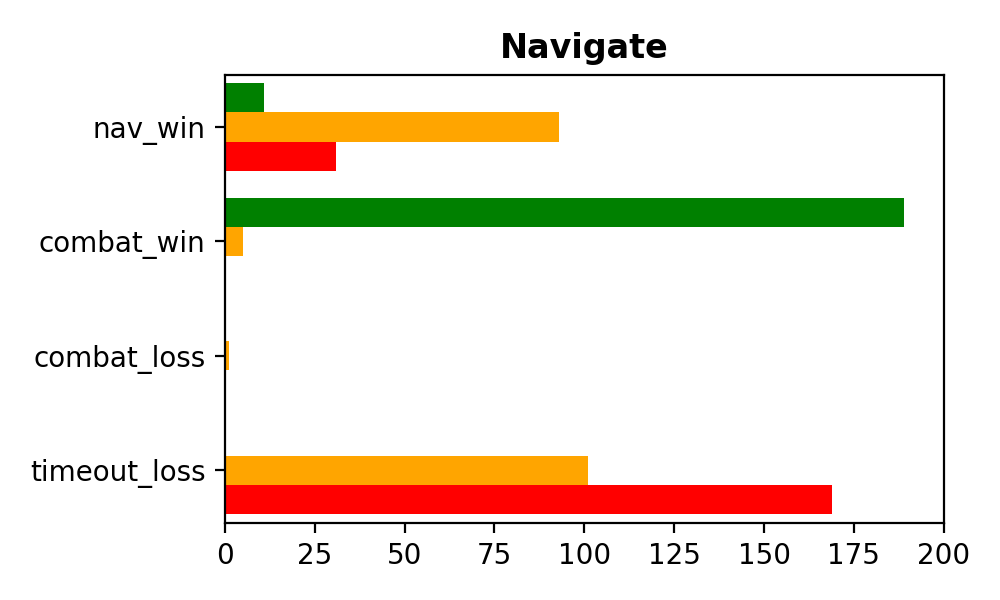
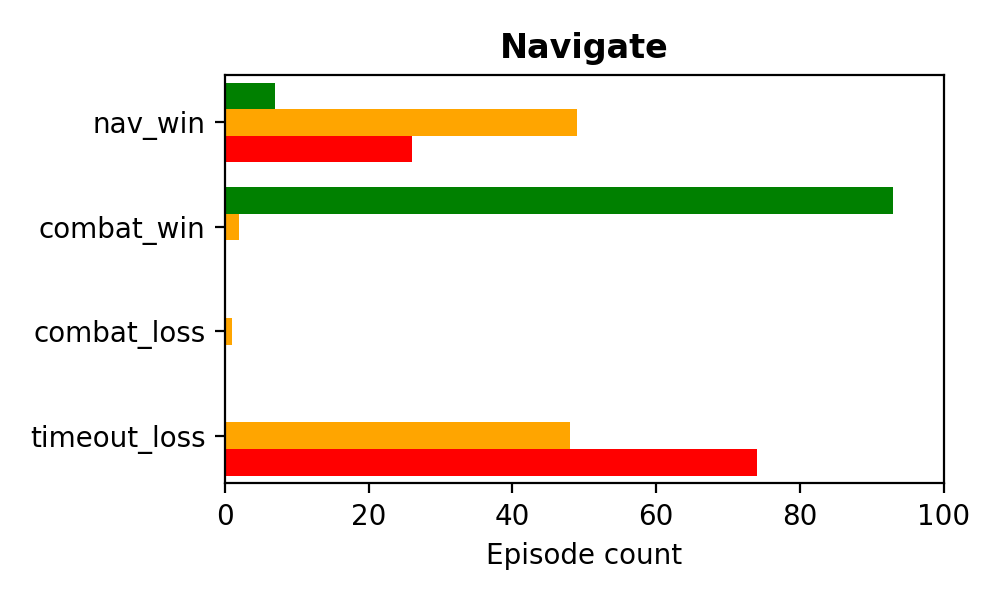
Edit List 1. Added a new file: Agents/run_A2C_PPO_evals.py 2. Modified MPPO plotting.

Changed region(s): [[0.031, 0.69, 0.992, 0.96], [0.031, 0.12, 0.93, 0.45], [0.031, 0.54, 0.248, 0.63]]

diff --git a/Agents/run_A2C_PPO_evals.py b/Agents/run_A2C_PPO_evals.py
@@ -1,0 +1,113 @@
+import os
+import sys
+import subprocess
+from pathlib import Path
+
+# -----------------------------
+# CONFIG
+# -----------------------------
+PROJECT_ROOT = Path(__file__).resolve().parents[1] 
+
+RUN_A2C = True
+RUN_PPO = True
+
+# If empty -> run all eval_*.py found in those folders.
+# Otherwise list exact filenames, e.g. ["eval_A2C_SF_AS14_agent.py", "eval_PPO_NSF_AS14_agent.py"]
+ONLY_THESE = []
+
+# - Set to None to disable
+TARGET_EPISODES = 100
+EPISODES_FLAG = "--episodes"
+
+# If True, keep going even if one script fails
+CONTINUE_ON_ERROR = False
+
+# -----------------------------
+# HELPERS
+# -----------------------------
+def discover_eval_scripts(folder: Path) -> list[Path]:
+    """Find eval_*.py directly under folder (non-recursive)."""
+    if not folder.exists():
+        return []
+    return sorted([p for p in folder.glob("eval_*.py") if p.is_file()])
+
+def filter_scripts(scripts: list[Path], only_these: list[str]) -> list[Path]:
+    if not only_these:
+        return scripts
+    want = set(only_these)
+    out = [p for p in scripts if p.name in want]
+    missing = want - set(p.name for p in out)
+    if missing:
+        print("WARNING: These requested scripts were not found:")
+        for m in sorted(missing):
+            print("  -", m)
+    return out
+
+def run_script(script_path: Path, extra_args: list[str]) -> int:
+    cmd = [sys.executable, str(script_path), *extra_args]
+    print("\n" + "=" * 80)
+    print(f"RUN: {script_path.relative_to(PROJECT_ROOT)}")
+    print("CMD:", " ".join(cmd))
+    print("=" * 80)
+
+    proc = subprocess.run(
+        cmd,
+        cwd=str(PROJECT_ROOT),
+        text=True,
+    )
+    return proc.returncode
+
+
+def main():
+    if str(PROJECT_ROOT) not in sys.path:
+        sys.path.insert(0, str(PROJECT_ROOT))
+
+    extra_args = []
+    if TARGET_EPISODES is not None:
+        extra_args = [EPISODES_FLAG, str(TARGET_EPISODES)]
+
+    jobs: list[Path] = []
+
+    if RUN_A2C:
+        a2c_dir = PROJECT_ROOT / "Agents" / "A2C"
+        jobs += discover_eval_scripts(a2c_dir)
+
+    if RUN_PPO:
+        ppo_dir = PROJECT_ROOT / "Agents" / "PPO"
+        jobs += discover_eval_scripts(ppo_dir)
+
+    jobs = filter_scripts(jobs, ONLY_THESE)
+
+    if not jobs:
+        raise FileNotFoundError(
+            "No eval scripts found.\n"
+            "Expected something like Agents/A2C/eval_*.py and/or Agents/PPO/eval_*.py"
+        )
+
+    failures = []
+    for script in jobs:
+        rc = run_script(script, extra_args)
+        if rc != 0:
+            failures.append((script, rc))
+            print(f"\n❌ FAILED ({rc}): {script.name}")
+            if not CONTINUE_ON_ERROR:
+                break
+        else:
+            print(f"\n✅ OK: {script.name}")
+
+    print("\n" + "-" * 80)
+    print("DONE.")
+    if TARGET_EPISODES is not None:
+        print(f"Episodes override attempted: {EPISODES_FLAG} {TARGET_EPISODES}")
+        print("(If your eval scripts don't accept this flag, set TARGET_EPISODES=None.)")
+
+    if failures:
+        print("\nFailures:")
+        for s, rc in failures:
+            print(f" - {s.relative_to(PROJECT_ROOT)} (rc={rc})")
+        sys.exit(1)
+
+    print("All eval scripts completed successfully.")
+
+if __name__ == "__main__":
+    main()

diff --git a/Agents/A2C/eval_A2C_NSF_AS14_agent.py b/Agents/A2C/eval_A2C_NSF_AS14_agent.py
@@ -16,11 +16,19 @@ if project_root not in sys.path:
 # ─────────────────── env import ─────────
 from Environments.Pilot.TB_env_NSF_AS14_V2_Base import TwoBridgeEnv
 
+# ─────────────────── argparsing ───────────────────
+import argparse
+parser = argparse.ArgumentParser()
+parser.add_argument("--episodes", type=int, default=10)
+args = parser.parse_args()
+
+EPISODES = args.episodes
+
 # ==================================================
 #                  CONFIG
 # ==================================================
 SEED = 0
-EPISODES = 50
+# EPISODES = 10
 RENDER = False
 
 AGENT_NAME = "SB_A2C_NSF_AS14"

diff --git a/Agents/PPO/eval_PPO_NSF_AS14_agent.py b/Agents/PPO/eval_PPO_NSF_AS14_agent.py
@@ -15,11 +15,19 @@ if project_root not in sys.path:
 # ─────────────────── env import ─────────
 from Environments.Pilot.TB_env_NSF_AS14_V2_Base import TwoBridgeEnv
 
+# ─────────────────── argparsing ───────────────────
+import argparse
+parser = argparse.ArgumentParser()
+parser.add_argument("--episodes", type=int, default=10)
+args = parser.parse_args()
+
+EPISODES = args.episodes
+
 # ==================================================
 #                  CONFIG
 # ==================================================
 SEED = 0
-EPISODES = 50
+# EPISODES = 10
 RENDER = False
 
 AGENT_NAME = "SB_PPO_NSF_AS14"

diff --git a/Agents/A2C/eval_A2C_SF_AS14_agent.py b/Agents/A2C/eval_A2C_SF_AS14_agent.py
@@ -16,11 +16,19 @@ if project_root not in sys.path:
 # ─────────────────── env import ─────────
 from Environments.Pilot.TB_env_SF_AS14_V2_Base import TwoBridgeEnv
 
+# ─────────────────── argparsing ───────────────────
+import argparse
+parser = argparse.ArgumentParser()
+parser.add_argument("--episodes", type=int, default=10)
+args = parser.parse_args()
+
+EPISODES = args.episodes
+
 # ==================================================
 #                  CONFIG
 # ==================================================
 SEED = 0
-EPISODES = 50
+# EPISODES = 10
 RENDER = False
 
 AGENT_NAME = "SB_A2C_SF_AS14"

diff --git a/Agents/PPO/eval_PPO_SF_AS14_agent.py b/Agents/PPO/eval_PPO_SF_AS14_agent.py
@@ -15,11 +15,19 @@ if project_root not in sys.path:
 # ─────────────────── env import ─────────
 from Environments.Pilot.TB_env_SF_AS14_V2_Base import TwoBridgeEnv
 
+# ─────────────────── argparsing ───────────────────
+import argparse
+parser = argparse.ArgumentParser()
+parser.add_argument("--episodes", type=int, default=10)
+args = parser.parse_args()
+
+EPISODES = args.episodes
+
 # ==================================================
 #                  CONFIG
 # ==================================================
 SEED = 0
-EPISODES = 50
+# EPISODES = 10
 RENDER = False
 
 AGENT_NAME = "SB_PPO_SF_AS14"

diff --git a/Agent Performance Charts/MPPO_AM_RM_mean overall plots.py b/Agent Performance Charts/MPPO_AM_RM_mean overall plots.py
@@ -166,7 +166,7 @@ def plot_variant(variant: str):
     ax.set_yticklabels(TERMINAL_OUTCOMES, fontsize=10)
     ax.invert_yaxis()
 
-    # ax.set_title(f"{variant}", fontsize=12, fontweight="bold")
+    ax.set_title(f"{variant}", fontsize=12, fontweight="bold")
     ax.set_xlabel("Episode count", fontsize=10)
     ax.set_xlim(0, y_lim_top)
 

diff --git a/Agent Performance Charts/MPPO_FAM_CAM overall plots.py b/Agent Performance Charts/MPPO_FAM_CAM overall plots.py
@@ -166,7 +166,7 @@ def plot_variant(variant: str):
     ax.set_yticklabels(TERMINAL_OUTCOMES, fontsize=10)
     ax.invert_yaxis()
 
-    # ax.set_title(f"{variant}", fontsize=12, fontweight="bold")
+    ax.set_title(f"{variant}", fontsize=12, fontweight="bold")
     ax.set_xlabel("Episode count", fontsize=10)
     ax.set_xlim(0, y_lim_top)
 
